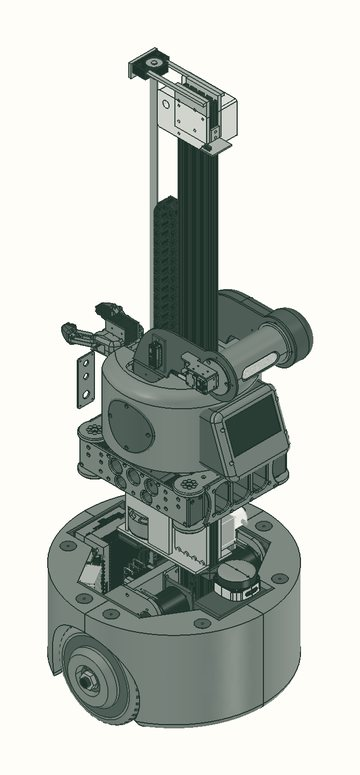
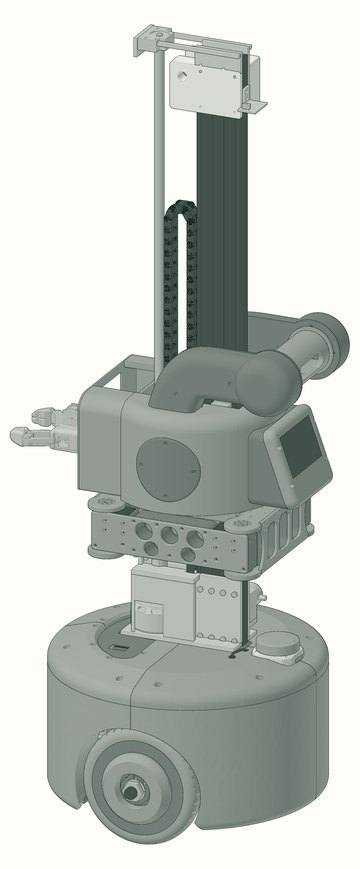
Show the whole Wheeler robot in the engineering drawing
The earlier drawing came from a CAD view saved with the covers hidden.
This one is rendered from a copy of the assembly with the top cover,
electronics cover, lidar body, head shell, wheels and tyres shown.

Claude-Session: https://claude.ai/code/session_017TP97M3iLNdMpwe1CTogMz

diff --git a/index.html b/index.html
@@ -219,13 +219,13 @@
         <figure class="plate plate--drawing reveal">
           <picture>
             <source type="image/webp"
-                    srcset="assets/img/wheeler-cad-360.webp 360w, assets/img/wheeler-cad-671.webp 671w"
+                    srcset="assets/img/wheeler-cad-360.webp 360w, assets/img/wheeler-cad-720.webp 720w"
                     sizes="(min-width: 60rem) 19rem, 60vw">
             <img src="assets/img/wheeler-cad-360.jpg"
-                 srcset="assets/img/wheeler-cad-360.jpg 360w, assets/img/wheeler-cad-671.jpg 671w"
+                 srcset="assets/img/wheeler-cad-360.jpg 360w, assets/img/wheeler-cad-720.jpg 720w"
                  sizes="(min-width: 60rem) 19rem, 60vw"
-                 width="671" height="1445" loading="lazy" decoding="async"
-                 alt="Engineering drawing of a mobile robot: a round wheeled base carrying a tall vertical lift, a head with a screen, and a small arm ending in a claw.">
+                 width="720" height="1738" loading="lazy" decoding="async"
+                 alt="Engineering drawing of the whole Wheeler robot: a round covered base on two drive wheels, a tall vertical lift, a head with a screen, and an arm ending in a claw.">
           </picture>
           <figcaption>Engineering model · Wheeler, in development</figcaption>
         </figure>

diff --git a/tools/render_wheeler.py b/tools/render_wheeler.py
@@ -1,0 +1,192 @@
+"""Render the whole Wheeler robot as an engineering drawing.
+
+Reads the triangle data written by export_wheeler.py, decides which parts to
+draw, and renders an orthographic view on the graphics card. The drawing is
+built from three flat renders of the same view:
+
+    shade   each part's saved colour, lit from a fixed direction
+    ident   a unique colour per part, so borders between parts can be found
+    normal  the surface direction, so creases within a part can be found
+
+Lines are drawn wherever the part or the surface direction changes, and the
+shading is mapped onto one ink colour so the result suits the website.
+
+Run with the generator's Python environment:
+
+    PYOPENGL_PLATFORM=egl ~/gr-image-generator/.venv/bin/python render_wheeler.py --out wheeler.png
+
+Which parts are drawn
+---------------------
+The CAD file was saved with covers and some other parts hidden so the inside
+could be worked on. "Whole robot" here means: everything that was visible,
+plus the hidden parts listed in SHOW_HIDDEN below. Hidden parts that are
+superseded designs, reference copies, construction geometry or space
+reservations stay hidden (see KEEP_HIDDEN).
+"""
+import argparse
+import json
+import re
+
+import numpy as np
+
+# Hidden parts to switch back on, matched against "group path / part label".
+SHOW_HIDDEN = [
+    r"lid / Individual components\d* / Lid( front (left|right))?( — |\d+ — )",   # the four top-cover quarters
+    r"Electronics lid — rocker switch and power meter",                          # electronics cover
+    r"lidar / Individual components\d* / S2 / ",                                  # lidar body
+    r"head / Individual components\d* / COMPOUND",                                # head shell pieces
+    r"right_antenna / Individual components\d* / COMPOUND",
+    r"(left|right)_tyre / Individual components\d* / ",                           # tyre
+    r"(left|right)_wheel / Individual components\d* / ",                          # wheel pieces
+    r"base_link / Individual components / body ",                                 # base body piece
+]
+# Never drawn, even if a SHOW_HIDDEN pattern matches.
+KEEP_HIDDEN = re.compile(
+    r"SUPERSEDED|REJECTED|reference|fit prototype|construction|Previous|Unplaced|envelope|clearance|"
+    r"Cover_Design|Cutouts|Blank|removed|reserved|not installed|uninstalled|Well_Removed|S2_Floor|"
+    r"Original native|Upright lift|/ geometry\d*( /|$)", re.I)
+
+INK = np.array([18, 39, 31]) / 255.0        # site ink colour (dark forest green)
+PAPER = np.array([255, 253, 247]) / 255.0   # site plate colour
+
+
+def choose_parts(records, extra_show=(), extra_hide=()):
+    """Return (drawn, switched_on): the records to draw and those that were hidden in the file."""
+    show = [re.compile(p) for p in list(SHOW_HIDDEN) + list(extra_show)]
+    hide = [re.compile(p) for p in extra_hide]
+    drawn, switched_on = [], []
+    for r in records:
+        if "error" in r or r["type"] == "Mesh::Feature" and r["label"].endswith(" visual"):
+            continue
+        text = " / ".join(r["path"]) + " / " + r["label"]
+        if any(h.search(text) for h in hide):
+            continue
+        saved_visible = r["visible"] and all(r["path_visible"])
+        if saved_visible:
+            drawn.append(r)
+        elif all(r["path_visible"]) and not KEEP_HIDDEN.search(text) and any(s.search(text) for s in show):
+            drawn.append(r)
+            switched_on.append(r)
+    return drawn, switched_on
+
+
+def look_at(direction, up=(0, 0, 1)):
+    """Camera rotation whose -Z axis points along ``direction`` (camera looks that way)."""
+    f = np.asarray(direction, float)
+    f /= np.linalg.norm(f)
+    s = np.cross(f, up)
+    s /= np.linalg.norm(s)
+    u = np.cross(s, f)
+    return np.column_stack([s, u, -f])
+
+
+def build_buffers(verts, faces, parts, light):
+    """Expand the chosen parts into unshared triangles with three colour sets."""
+    tri_ids = np.concatenate([np.arange(p["tri_start"], p["tri_start"] + p["tri_count"]) for p in parts])
+    part_of = np.concatenate([np.full(p["tri_count"], i, np.int32) for i, p in enumerate(parts)])
+    tris = verts[faces[tri_ids]]                                   # T x 3 x 3
+    n = np.cross(tris[:, 1] - tris[:, 0], tris[:, 2] - tris[:, 0])
+    length = np.linalg.norm(n, axis=1, keepdims=True)
+    keep = length[:, 0] > 1e-9
+    tris, n, part_of = tris[keep], n[keep] / length[keep], part_of[keep]
+    base = np.array([p["colour"] or (0.7, 0.7, 0.7) for p in parts], np.float32)[part_of]
+    # Two-sided diffuse light plus ambient; CAD faces are not always consistently wound.
+    diffuse = np.abs(n @ light)
+    shade = base * (0.42 + 0.58 * diffuse)[:, None]
+    ident = np.stack([(part_of * 7919 + 13) % 251, (part_of * 104729 + 7) % 241, (part_of * 1299709 + 3) % 239], 1) / 255.0
+    return tris.reshape(-1, 3).astype(np.float32), n, shade, ident.astype(np.float32)
+
+
+def render_flat(positions, colours, cam_pose, half_w, half_h, size, depth_range):
+    """Render unlit triangles with per-triangle colours; returns an H x W x 3 float image."""
+    import pyrender
+    rgba = np.concatenate([np.repeat(colours, 3, axis=0), np.ones((len(positions), 1), np.float32)], 1)
+    prim = pyrender.Primitive(positions=positions, color_0=rgba, mode=4)
+    scene = pyrender.Scene(bg_color=[1.0, 1.0, 1.0, 1.0], ambient_light=[1.0, 1.0, 1.0])
+    scene.add(pyrender.Mesh([prim]))
+    cam = pyrender.OrthographicCamera(xmag=half_w, ymag=half_h, znear=depth_range[0], zfar=depth_range[1])
+    scene.add(cam, pose=cam_pose)
+    renderer = pyrender.OffscreenRenderer(size[0], size[1])
+    colour, _ = renderer.render(scene, flags=pyrender.RenderFlags.FLAT | pyrender.RenderFlags.SKIP_CULL_FACES)
+    renderer.delete()
+    return colour.astype(np.float32) / 255.0
+
+
+def edges_from(image, threshold):
+    """Mark pixels whose value differs from the pixel to the right or below."""
+    d = np.zeros(image.shape[:2], bool)
+    d[:, :-1] |= np.abs(image[:, 1:] - image[:, :-1]).max(2) > threshold
+    d[:-1, :] |= np.abs(image[1:, :] - image[:-1, :]).max(2) > threshold
+    return d
+
+
+def main():
+    ap = argparse.ArgumentParser(description=__doc__.split("\n")[0])
+    ap.add_argument("--data", default="/home/kelsey-j-harvey/gr-image-generator/wheeler-render/wheeler_parts")
+    ap.add_argument("--out", required=True)
+    ap.add_argument("--view", type=float, nargs=3, default=[-1.0, 1.25, -0.62],
+                    help="Direction the camera looks along, in the robot's coordinates.")
+    ap.add_argument("--height", type=int, default=2400, help="Output height in pixels.")
+    ap.add_argument("--saved-state", action="store_true", help="Draw only what was visible in the saved file.")
+    ap.add_argument("--show", action="append", default=[], help="Extra pattern of hidden parts to draw.")
+    ap.add_argument("--hide", action="append", default=[], help="Pattern of parts to leave out.")
+    ap.add_argument("--colour", action="store_true", help="Keep the CAD colours instead of one ink.")
+    args = ap.parse_args()
+
+    data = np.load(args.data + ".npz")
+    records = json.load(open(args.data + ".json"))
+    if args.saved_state:
+        SHOW_HIDDEN.clear()
+    parts, switched_on = choose_parts(records, args.show, args.hide)
+    print("parts drawn:", len(parts), "of which were hidden in the file:", len(switched_on))
+    for r in switched_on:
+        print("  ON:", " / ".join(r["path"][-2:]), "/", r["label"])
+
+    rot = look_at(args.view)
+    light = rot @ np.array([-0.45, 0.55, 0.70])
+    light /= np.linalg.norm(light)
+    positions, normals, shade, ident = build_buffers(data["vertices"], data["faces"], parts, light)
+    print("triangles:", len(positions) // 3)
+
+    # Frame the model: project onto the camera axes and pad the bounding box.
+    cam_xy = positions @ rot[:, :2]
+    lo, hi = cam_xy.min(0), cam_xy.max(0)
+    centre_xy = (lo + hi) / 2
+    half = (hi - lo) / 2 * 1.06
+    depth = positions @ rot[:, 2]
+    eye = rot[:, 0] * centre_xy[0] + rot[:, 1] * centre_xy[1] + rot[:, 2] * (depth.max() + 50)
+    pose = np.eye(4)
+    pose[:3, :3], pose[:3, 3] = rot, eye
+    scale = 2                                     # render at twice the size, then reduce
+    h = args.height * scale
+    w = int(round(h * half[0] / half[1] / 2) * 2)
+    rng = (1.0, float(depth.max() - depth.min() + 100))
+
+    shaded = render_flat(positions, shade, pose, half[0], half[1], (w, h), rng)
+    idmap = render_flat(positions, ident, pose, half[0], half[1], (w, h), rng)
+    cam_normals = np.abs(normals @ rot) * 0.5 + 0.25      # view-space direction, sign-free
+    normal = render_flat(positions, cam_normals.astype(np.float32), pose, half[0], half[1], (w, h), rng)
+
+    outline = edges_from(idmap, 0.02)
+    crease = edges_from(normal, 0.16) & ~outline
+    background = (idmap > 0.995).all(2)
+
+    if args.colour:
+        img = shaded.copy()
+    else:
+        lum = shaded @ np.array([0.299, 0.587, 0.114])
+        tone = np.clip((lum - 0.05) / 0.9, 0, 1) ** 0.85
+        tone = 0.30 + 0.70 * tone                         # keep the darkest parts readable
+        img = INK + (PAPER - INK) * tone[..., None]
+    img[crease] = img[crease] * 0.55 + INK * 0.45
+    img[outline] = INK
+    img[background & ~outline] = PAPER
+
+    from PIL import Image
+    out = Image.fromarray((np.clip(img, 0, 1) * 255).astype(np.uint8)).resize((w // scale, h // scale), Image.LANCZOS)
+    out.save(args.out)
+    print("saved", args.out, out.size)
+
+
+if __name__ == "__main__":
+    main()

diff --git a/tools/prepare_images.py b/tools/prepare_images.py
@@ -20,7 +20,7 @@ BRAND = sys.argv[1] if len(sys.argv) > 1 else "/mnt/user-data/uploads/GR Brandin
 ADS = BRAND + "Campaign Concepts/10 - Corrected Emblems and Red Flags/"
 EDEN = BRAND + "Logo Concepts/Taking Flight in Eden - No Suffix/01-eden-sparrow-no-suffix.png"
 # Kept beside the site, outside the published files.
-WHEELER = "_source/wheeler-cad-revision11.png"
+WHEELER = "_source/wheeler-whole.png"
 PORTRAIT = "_source/founder-portrait.jpg"
 OUT = "assets/img/"
 
@@ -62,32 +62,19 @@ def export(im, stem, widths, quality=82):
     return sizes
 
 
-def engineering_plate(path, ink=(18, 39, 31), paper=(255, 253, 247), pad=0.07):
-    """Turn a CAD screenshot into a one-ink drawing on the site's plate colour.
+def drawing(path, max_width=720):
+    """Load the Wheeler engineering drawing.
 
-    The development model is drawn in working colours (red and grey). Mapping
-    its brightness onto forest-green ink keeps the page in the brand palette
-    and makes clear the picture is an engineering drawing, not a photograph.
-
-    Args:
-        path: CAD render on a white background.
-        ink: RGB colour for the darkest tone.
-        paper: RGB colour for white.
-        pad: margin around the model, as a fraction of its height.
+    The drawing is rendered from the CAD model already in the site's ink and
+    plate colours (see _source/README.md), so it only needs resizing.
 
     Returns:
-        PIL RGB image cropped to the model.
+        PIL RGB image no wider than ``max_width``.
     """
     im = Image.open(path).convert("RGB")
-    a = np.asarray(im).astype(float)
-    ys, xs = np.where(np.abs(a - 255).sum(2) > 12)
-    m = int((ys.max() - ys.min()) * pad)
-    box = (max(xs.min() - m, 0), max(ys.min() - m, 0), min(xs.max() + m, im.width), min(ys.max() + m, im.height))
-    a = np.asarray(im.crop(box)).astype(float)
-    lum = (0.299 * a[..., 0] + 0.587 * a[..., 1] + 0.114 * a[..., 2]) / 255.0
-    lum = np.clip((lum - 0.06) / 0.94, 0, 1) ** 0.9          # gentle contrast lift
-    out = np.array(ink) + (np.array(paper) - np.array(ink)) * lum[..., None]
-    return Image.fromarray(out.astype(np.uint8))
+    if im.width > max_width:
+        im = im.resize((max_width, round(im.height * max_width / im.width)), Image.LANCZOS)
+    return im
 
 
 def round_portrait(path, size=320):
@@ -119,7 +106,7 @@ if __name__ == "__main__":
     print("exposition", expo_pic.size, export(expo_pic, "exposition", [720, 1100, expo_pic.width]))
     eden = whiten_paper(Image.open(EDEN).convert("RGB"))
     print("eden", eden.size, export(eden, "eden-crest", [420, 720], quality=80))
-    wheeler = engineering_plate(WHEELER)
-    print("wheeler", wheeler.size, export(wheeler, "wheeler-cad", [360, wheeler.width], quality=84))
+    wheeler = drawing(WHEELER)
+    print("wheeler", wheeler.size, export(wheeler, "wheeler-cad", [360, wheeler.width], quality=86))
     round_portrait(PORTRAIT).save(OUT + "founder.jpg", quality=86, optimize=True)
 

diff --git a/_source/README.md b/_source/README.md
@@ -1,0 +1,16 @@
+# Source images
+
+Originals that `tools/prepare_images.py` turns into the web-ready files in `assets/img/`.
+
+| File | What it is |
+| --- | --- |
+| `wheeler-whole.png` | Engineering drawing of the whole Wheeler robot, rendered from the CAD model |
+| `founder-portrait.jpg` | Founder portrait |
+
+## How the Wheeler drawing is made
+
+The drawing is rendered from a copy of the Wheeler CAD assembly, never from the working file. The assembly is normally saved with its covers hidden so the inside can be worked on; for this picture the top cover, electronics cover, lidar body, head shell, wheels and tyres are switched back on. Superseded designs, reference copies and construction geometry stay hidden.
+
+The render is orthographic. Outlines are drawn where one part meets another and where a surface changes direction, and the shading is mapped onto the site's ink colour so the picture reads as a drawing.
+
+The export and render scripts are kept with the robot's engineering files, not in this public repository.
